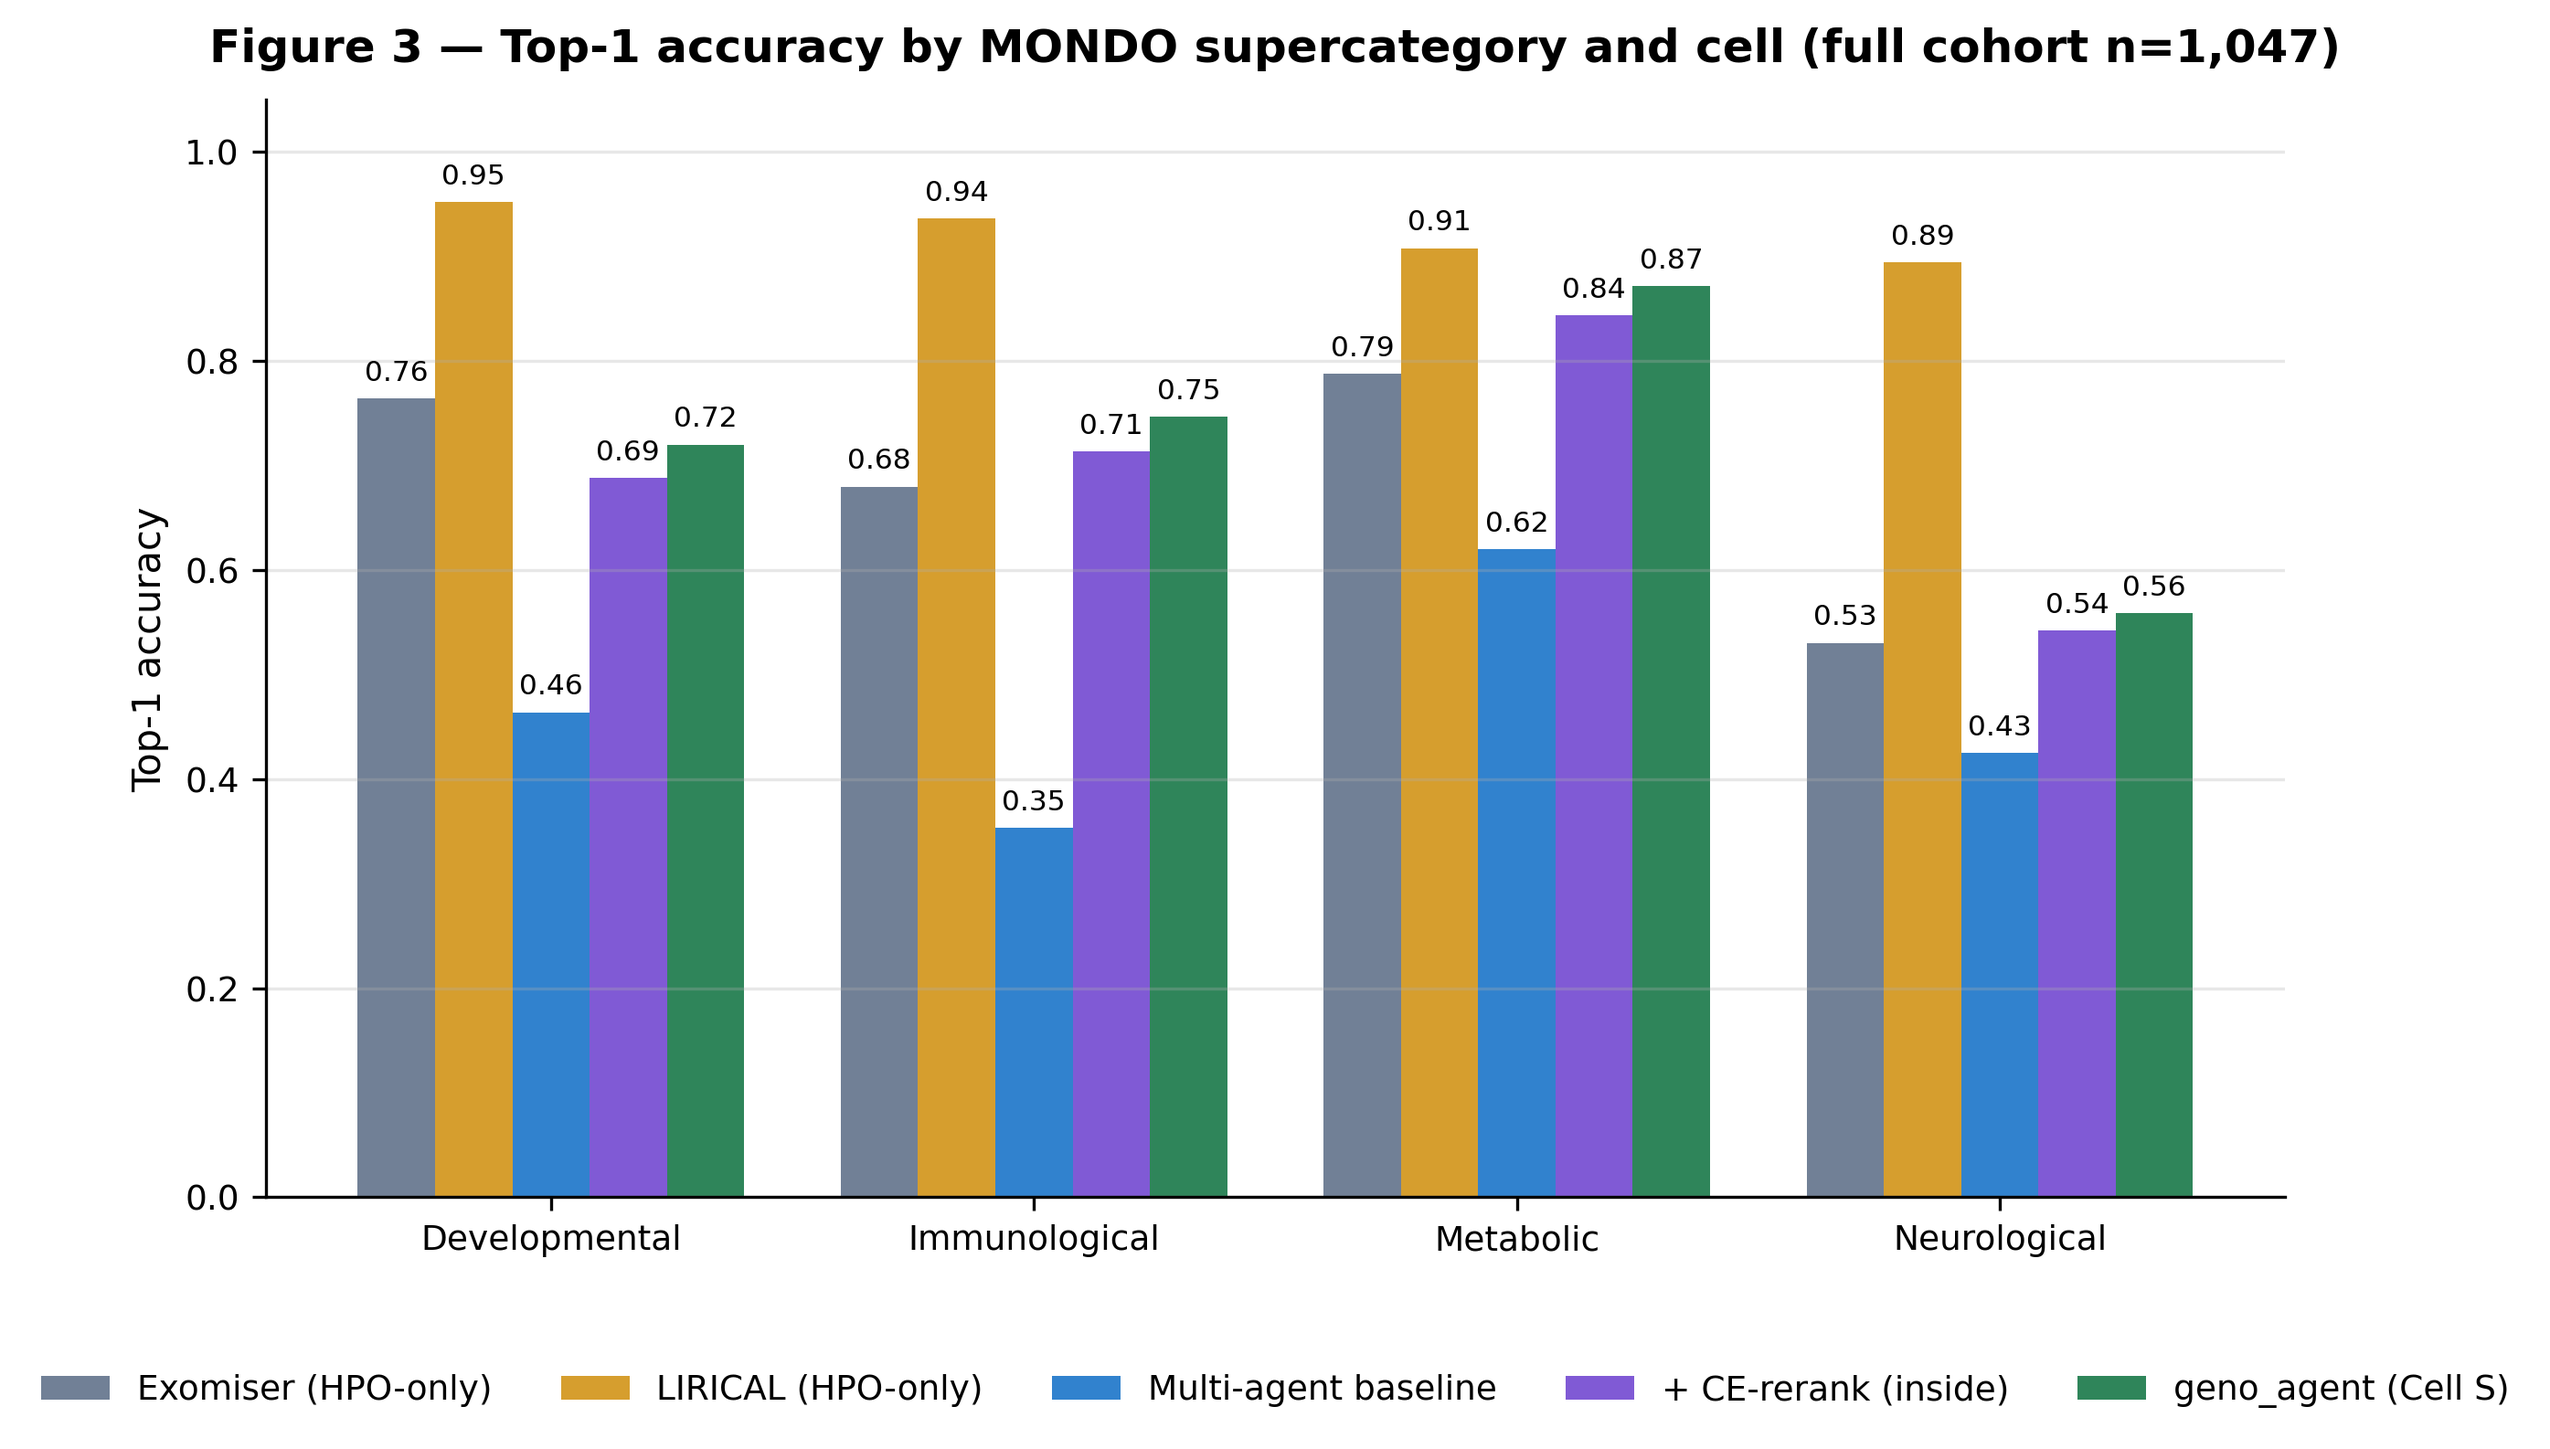
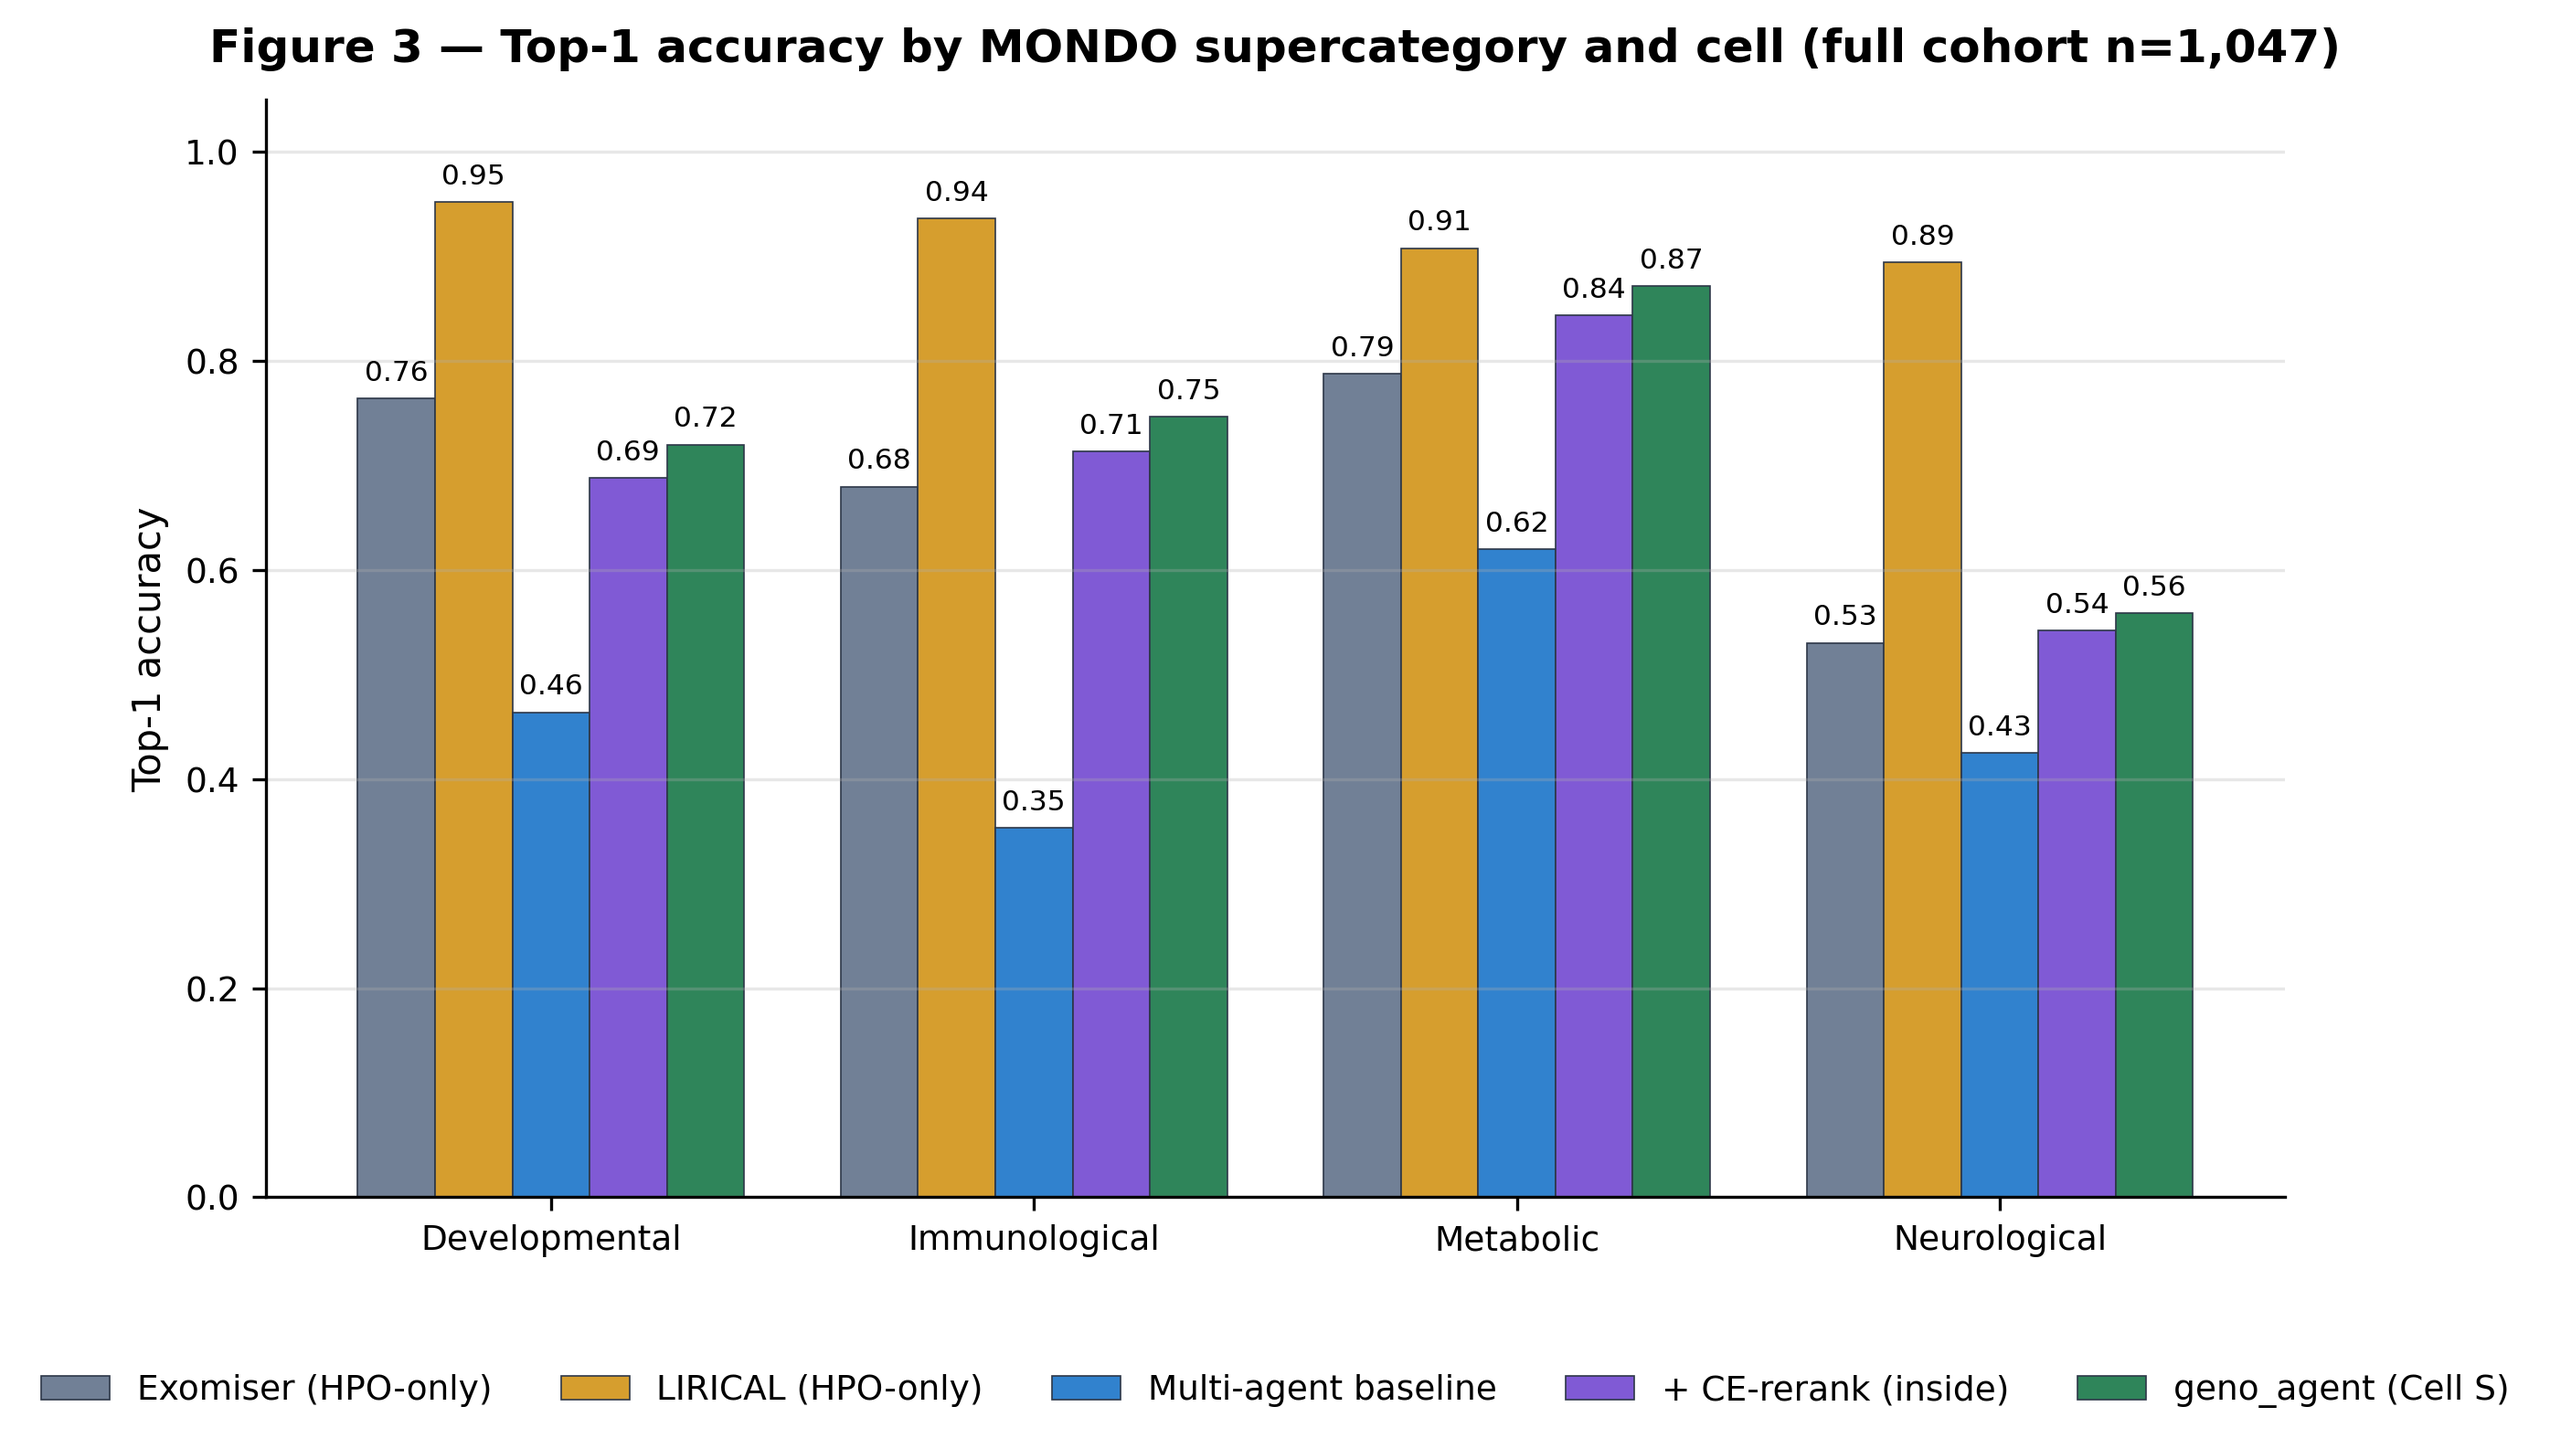
figures(P2): renumber to document order + harmonise palette
Hard=Fig4, faithfulness=Fig5, landscape=Fig6 (titles + filenames + main order
in P2_render_paper_artifacts.py). Add shared CELL_COLORS/SIG_GREEN palette for
colour-consistent, colourblind-aware figures. Drop stale old-numbered PNGs.

diff --git a/scripts/manuscript/P2_render_paper_artifacts.py b/scripts/manuscript/P2_render_paper_artifacts.py
@@ -5,8 +5,8 @@ Produces:
                    table3_fair_paired_delta.{md,csv}, table4_llm_ablation.{md,csv}
                    (supp_table1_tripod_llm.md is maintained manually and preserved)
   reports/figures/ fig2_architecture.png, fig3_per_mondo_top1.png,
-                   fig4_faithfulness_vs_correctness.png, fig5_landscape_quadrant.png,
-                   fig6_hard_difficulty.png (hard-cohort full vs fair top-1),
+                   fig4_hard_difficulty.png (hard-cohort full vs fair top-1),
+                   fig5_faithfulness_vs_correctness.png, fig6_landscape_quadrant.png,
                    supp_fig1_lirical_recency_paradox.png,
                    supp_fig2_llm_family_ablation.png
 
@@ -45,6 +45,22 @@ CELL_DISPLAY = {
     "N": "RRF ensemble (M+S)",
 }
 CELL_ORDER = ["K", "M", "D", "L", "S", "N"]
+
+# Harmonised palette — one source of truth so every P2 figure is colour-consistent
+# and colourblind-aware. geno_agent (Cell S) carries the signature green everywhere.
+SIG_GREEN = "#2f855a"  # geno_agent / fair cohort / "this work" — signature accent
+NEUTRAL = "#a0aec0"  # full cohort / neutral baseline grey
+POS_FILL = "#c6f6d5"  # light green — correct / grounded
+NEG_FILL = "#fed7d7"  # light red — wrong / ungrounded
+EDGE = "#2d3748"  # dark slate — edges and text
+CELL_COLORS = {
+    "K": "#718096",  # Exomiser — slate grey
+    "M": "#d69e2e",  # LIRICAL — amber
+    "D": "#3182ce",  # multi-agent baseline — blue
+    "L": "#805ad5",  # +CE-rerank — purple
+    "S": SIG_GREEN,  # geno_agent — signature green
+    "N": "#dd6b20",  # RRF ensemble — orange
+}
 
 # Publication-grade plot style
 plt.rcParams.update(
@@ -324,9 +340,9 @@ def render_supp_table1() -> None:
 
 
 # =============================================================================
-# Figure 5 (P2) -- method-landscape positioning quadrant
+# Figure 6 (P2) -- method-landscape positioning quadrant
 # =============================================================================
-def render_figure5_landscape() -> None:
+def render_figure6_landscape() -> None:
     """Conceptual 2x2 positioning of geno_agent vs prior methods.
 
     Axes: knowledge source (curated KB -> primary literature) x inference-time
@@ -437,7 +453,7 @@ def render_figure5_landscape() -> None:
     tool(7.3, 1.9, "(BM25 / dense, same index)", "#6b46c1", w=2.1)
 
     ax.set_title(
-        "Figure 5 — Position of geno_agent in the method landscape",
+        "Figure 6 — Position of geno_agent in the method landscape",
         fontsize=13,
         fontweight="bold",
         pad=12,
@@ -452,9 +468,9 @@ def render_figure5_landscape() -> None:
         style="italic",
         color="#4a5568",
     )
-    fig.savefig(FIG_DIR / "fig5_landscape_quadrant.png")
+    fig.savefig(FIG_DIR / "fig6_landscape_quadrant.png")
     plt.close(fig)
-    print("  ✓ Figure 5 (method-landscape quadrant)")
+    print("  ✓ Figure 6 (method-landscape quadrant)")
 
 
 # =============================================================================
@@ -599,13 +615,6 @@ def render_figure3() -> None:
         if row["cell"] in cells and row["category"] in cats:
             by_cell_cat[row["cell"]][row["category"]] = row["top1_point"]
 
-    cell_colors = {
-        "K": "#718096",  # Exomiser - grey
-        "M": "#d69e2e",  # LIRICAL - amber
-        "D": "#3182ce",  # multi-agent baseline - blue
-        "L": "#805ad5",  # +rerank - purple
-        "S": "#2f855a",  # geno_agent - green
-    }
     cell_labels = {c: CELL_DISPLAY[c] for c in cells}
 
     fig, ax = plt.subplots(figsize=(9.5, 5.2))
@@ -613,7 +622,15 @@ def render_figure3() -> None:
     w = 0.16
     for i, c in enumerate(cells):
         vals = [by_cell_cat[c].get(cat, 0) for cat in cats]
-        bars = ax.bar(x + (i - 2) * w, vals, w, label=cell_labels[c], color=cell_colors[c])
+        bars = ax.bar(
+            x + (i - 2) * w,
+            vals,
+            w,
+            label=cell_labels[c],
+            color=CELL_COLORS[c],
+            edgecolor=EDGE,
+            linewidth=0.4,
+        )
         for b, v in zip(bars, vals, strict=False):
             ax.text(
                 b.get_x() + b.get_width() / 2,
@@ -642,9 +659,9 @@ def render_figure3() -> None:
 
 
 # =============================================================================
-# Figure 6 -- Hard-cohort full vs fair top-1 (distractor-difficulty stress test)
+# Figure 4 -- Hard-cohort full vs fair top-1 (distractor-difficulty stress test)
 # =============================================================================
-def render_figure6_hard() -> None:
+def render_figure4_hard() -> None:
     """Hard cohort (phenotype-similar distractors): full vs fair top-1 per cell.
 
     Visualises the annotation-overlap deconfounding signature under difficulty:
@@ -672,8 +689,8 @@ def render_figure6_hard() -> None:
         full,
         w,
         label="Full (n=1,047)",
-        color="#cbd5e0",
-        edgecolor="#4a5568",
+        color=NEUTRAL,
+        edgecolor=EDGE,
         linewidth=0.5,
     )
     b2 = ax.bar(
@@ -681,8 +698,8 @@ def render_figure6_hard() -> None:
         fair,
         w,
         label="Fair / overlap-absent (n=282)",
-        color="#2f855a",
-        edgecolor="#22543d",
+        color=SIG_GREEN,
+        edgecolor=EDGE,
         linewidth=0.5,
     )
     for bars, vals in ((b1, full), (b2, fair)):
@@ -701,22 +718,22 @@ def render_figure6_hard() -> None:
     ax.set_ylabel("Top-1 accuracy")
     ax.set_ylim(0, 0.75)
     ax.set_title(
-        "Figure 6 — Hard cohort (phenotype-similar distractors): full vs fair top-1",
+        "Figure 4 — Hard cohort (phenotype-similar distractors): full vs fair top-1",
         pad=10,
         fontsize=12,
         fontweight="bold",
     )
     ax.legend(loc="upper right", frameon=False)
     ax.grid(axis="y", alpha=0.3)
-    fig.savefig(FIG_DIR / "fig6_hard_difficulty.png")
+    fig.savefig(FIG_DIR / "fig4_hard_difficulty.png")
     plt.close(fig)
-    print("  ✓ Figure 6 (hard-cohort full vs fair top-1)")
+    print("  ✓ Figure 4 (hard-cohort full vs fair top-1)")
 
 
 # =============================================================================
-# Figure 4 -- Faithfulness vs top-1 correctness
+# Figure 5 -- Faithfulness vs top-1 correctness
 # =============================================================================
-def render_figure4() -> None:
+def render_figure5_faithfulness() -> None:
     """RAGAS + DeepEval faithfulness distributions split by top-1 correctness."""
     # Load RAGAS top1-only (n=100) per-case + DeepEval per-case
     ragas = json.loads((DATA_EVAL / "ragas_top1only_cell_S_n100_summary.json").read_text())
@@ -782,9 +799,9 @@ def render_figure4() -> None:
         widths=0.55,
         medianprops={"color": "black", "linewidth": 1.5},
     )
-    for patch, color in zip(bp["boxes"], ["#c6f6d5", "#fed7d7"], strict=False):
+    for patch, color in zip(bp["boxes"], [POS_FILL, NEG_FILL], strict=False):
         patch.set_facecolor(color)
-        patch.set_edgecolor("#2d3748")
+        patch.set_edgecolor(EDGE)
     ax.set_ylabel("RAGAS faithfulness (top-1-only)")
     mean_c = np.mean(ragas_correct) if ragas_correct else float("nan")
     mean_w = np.mean(ragas_wrong) if ragas_wrong else float("nan")
@@ -802,9 +819,9 @@ def render_figure4() -> None:
         widths=0.55,
         medianprops={"color": "black", "linewidth": 1.5},
     )
-    for patch, color in zip(bp["boxes"], ["#c6f6d5", "#fed7d7"], strict=False):
+    for patch, color in zip(bp["boxes"], [POS_FILL, NEG_FILL], strict=False):
         patch.set_facecolor(color)
-        patch.set_edgecolor("#2d3748")
+        patch.set_edgecolor(EDGE)
     ax.set_ylabel("DeepEval groundedness")
     mean_c2 = np.mean(de_correct) if de_correct else float("nan")
     mean_w2 = np.mean(de_wrong) if de_wrong else float("nan")
@@ -814,14 +831,14 @@ def render_figure4() -> None:
     ax.grid(axis="y", alpha=0.3)
 
     fig.suptitle(
-        "Figure 4 — Faithfulness predicts top-1 correctness (Cell S, n≤100)",
+        "Figure 5 — Faithfulness predicts top-1 correctness (Cell S, n≤100)",
         fontsize=12,
         fontweight="bold",
         y=1.02,
     )
-    fig.savefig(FIG_DIR / "fig4_faithfulness_vs_correctness.png")
+    fig.savefig(FIG_DIR / "fig5_faithfulness_vs_correctness.png")
     plt.close(fig)
-    print(f"  ✓ Figure 4 (faithfulness gaps: RAGAS={gap:+.1f}pp, DeepEval={gap2:+.1f}pp)")
+    print(f"  ✓ Figure 5 (faithfulness gaps: RAGAS={gap:+.1f}pp, DeepEval={gap2:+.1f}pp)")
 
 
 # =============================================================================
@@ -1023,9 +1040,9 @@ def main() -> None:
     # Fig 1 (CONSORT, shared) is generated by scripts/manuscript/P1_figures.ipynb.
     render_figure2()
     render_figure3()
-    render_figure4()
-    render_figure5_landscape()
-    render_figure6_hard()
+    render_figure4_hard()
+    render_figure5_faithfulness()
+    render_figure6_landscape()
     render_supp_fig1()
     render_supp_fig2()
     print()

diff --git a/reports/figures/README.md b/reports/figures/README.md
@@ -28,9 +28,9 @@ The shared CONSORT (`fig1_consort_flow.png`) comes from the P1 notebook.
 |---|---|---|
 | `fig2_architecture.png` | agentic-workflow architecture | schematic |
 | `fig3_per_mondo_top1.png` | per-MONDO top-1 accuracy | `_results_summary.json` (by_category) |
-| `fig4_faithfulness_vs_correctness.png` | faithfulness vs correctness gaps | RAGAS/DeepEval sidecars |
-| `fig5_landscape_quadrant.png` | method-landscape positioning | schematic |
-| `fig6_hard_difficulty.png` | hard cohort: full vs fair top-1 per system | `data/eval_hard/_results_stratified.json` |
+| `fig4_hard_difficulty.png` | hard cohort: full vs fair top-1 per system | `data/eval_hard/_results_stratified.json` |
+| `fig5_faithfulness_vs_correctness.png` | faithfulness vs correctness gaps | RAGAS/DeepEval sidecars |
+| `fig6_landscape_quadrant.png` | method-landscape positioning | schematic |
 | `supp_fig1_lirical_recency_paradox.png` | recency stratification | `_results_recency.json` |
 | `supp_fig2_llm_family_ablation.png` | LLM-family ablation | `_results_lea_ablation.json` |
 
